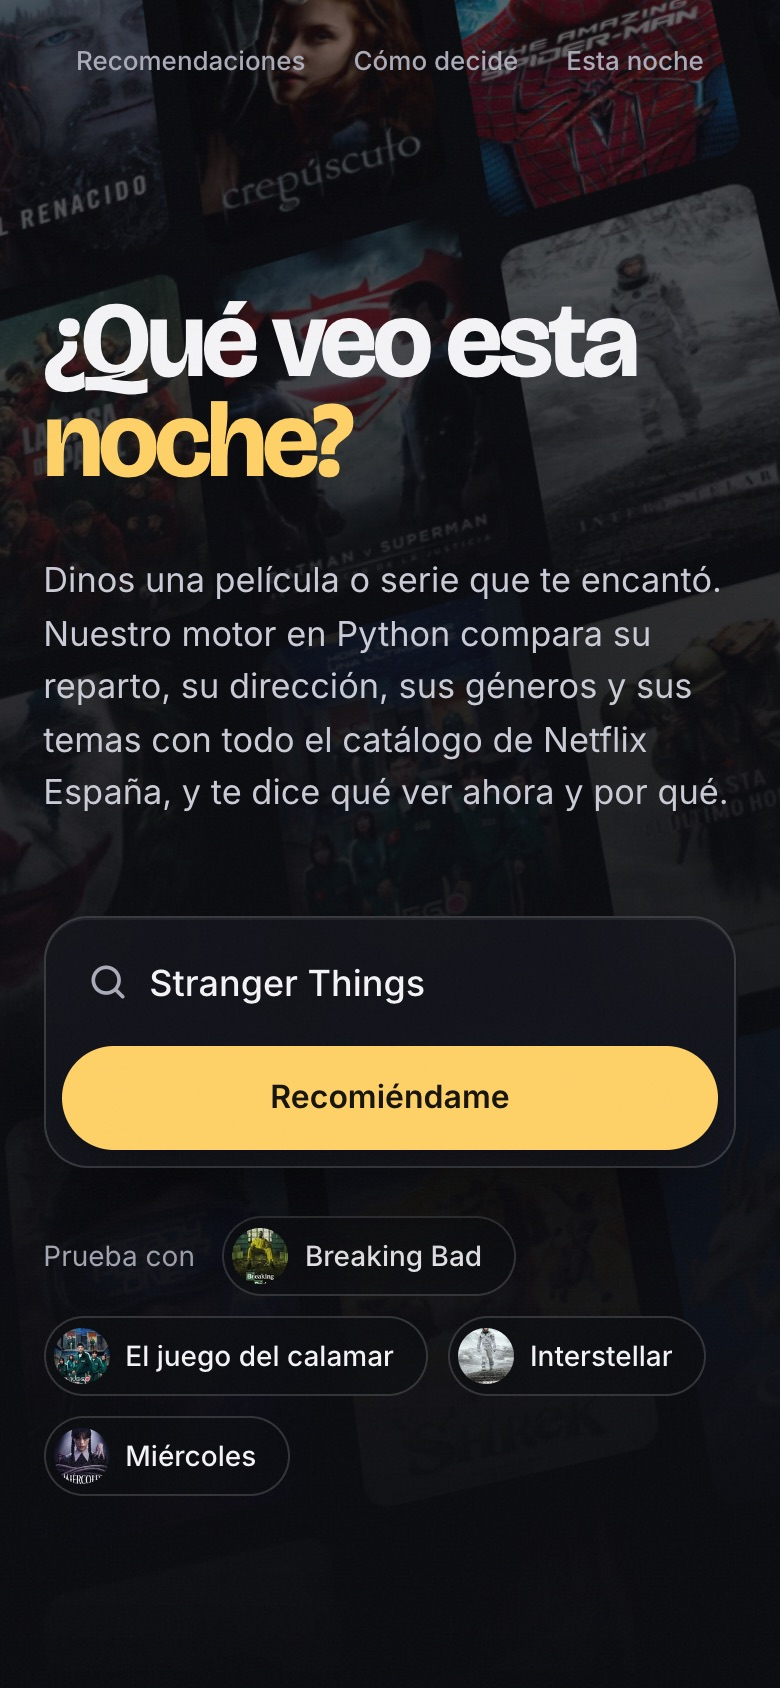
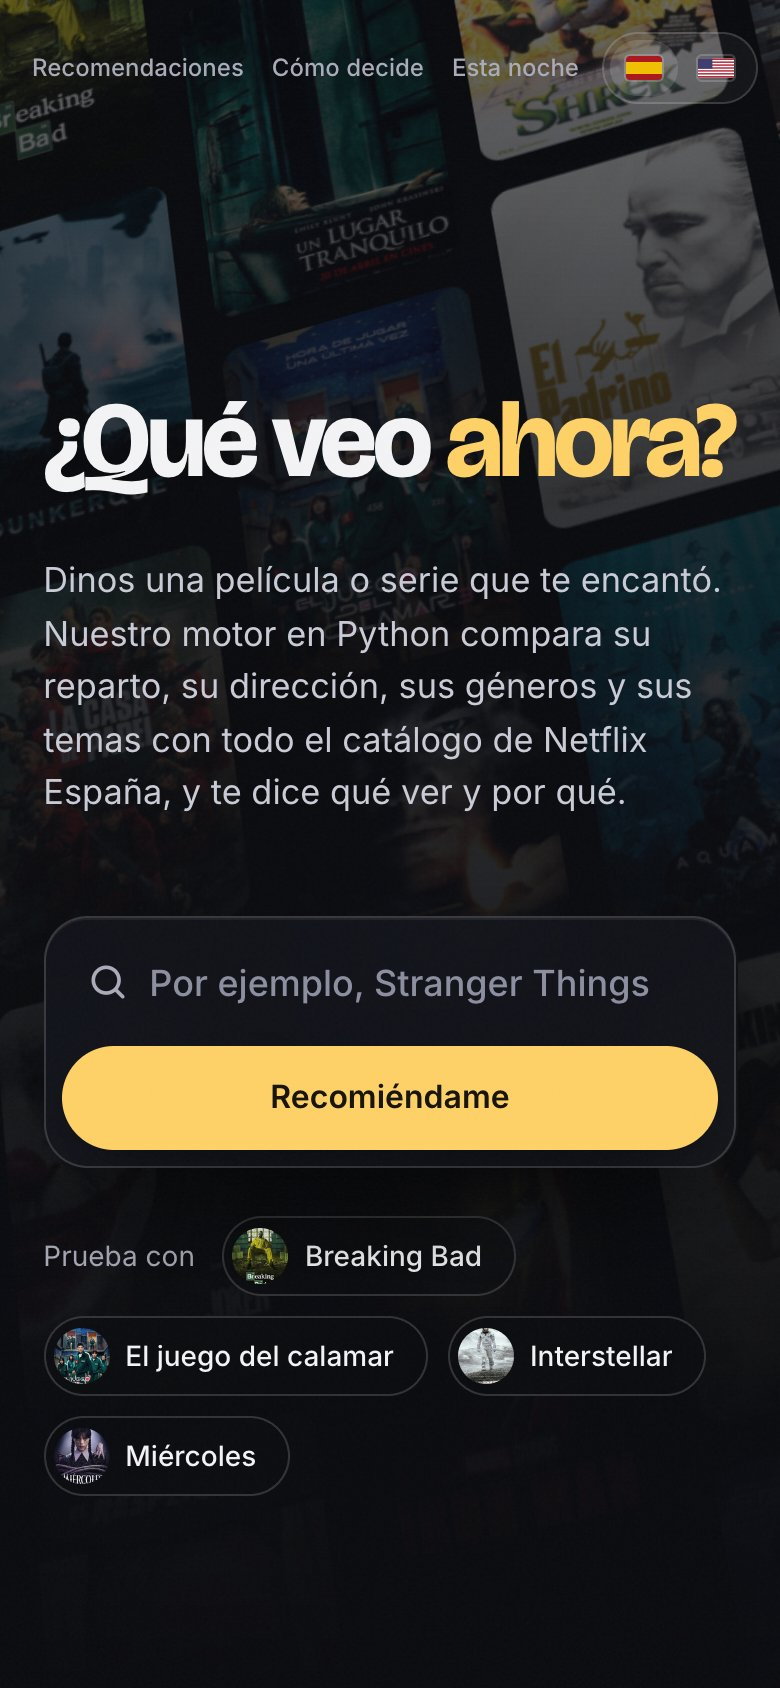
content(capturas): rehace la portada con el titular nuevo en las dos versiones
Las capturas de la portada (escritorio y móvil) mostraban «¿Qué veo esta noche?». Se rehacen en castellano y se añaden las de la versión inglesa, que usa ahora el README en inglés.

diff --git a/README.en.md b/README.en.md
@@ -14,7 +14,7 @@
 👉 **Try it in English (Netflix US) at https://queveoahora.pages.dev/en/** · Spanish version
 (Netflix Spain): **https://queveoahora.pages.dev**
 
-![Home page: a wall of posters from the catalogue with the search box on top](docs/portada.jpg)
+![Home page: a wall of posters from the catalogue with the search box on top](docs/portada-en.jpg)
 
 Portfolio project for the advanced Python module of the **Conquer Blocks Full Stack Master's**.
 
@@ -57,7 +57,7 @@ them. No black boxes: the website shows live how it reached each decision.
   preferences.
 
 <p align="center">
-  <img src="docs/movil.jpg" alt="The home page on a phone" width="260">
+  <img src="docs/movil-en.jpg" alt="The home page on a phone" width="260">
   &nbsp;&nbsp;
   <img src="docs/movil-resultado.jpg" alt="Recommendations for Squid Game on a phone" width="260">
 </p>
